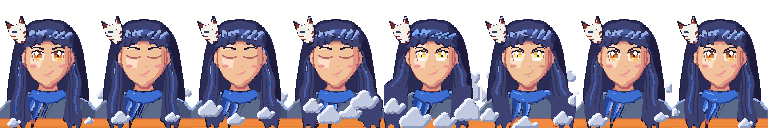
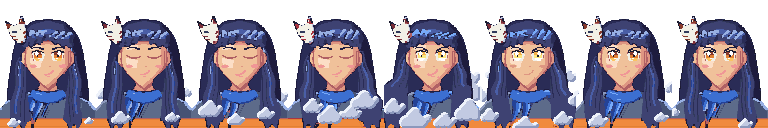
Shade: heart-bottom chin (convex jaw curves to a single point)
Claude-Session: https://claude.ai/code/session_01J8LgTLVYzThXjNSRVhWqep

diff --git a/tools/sprites/anime_flicker.py b/tools/sprites/anime_flicker.py
@@ -53,23 +53,28 @@ FBASE = dict(mouth="smirk", hair="long", eyes="animeB", mask="side", scarf="tail
 
 
 # ---------------------------------------------------------------- female face shape (explicit, per character)
-# Cheek width and chin are SEPARATE: cheek0 scales the face width below y 27 exactly as Sakura's does (Shade -0.03); the chin
-# only replaces the last two points of her polygon (below y ~40): chin_w = width of the chin, chin_drop = how far the tip sits
-# below y 43.0. "Pointier" means the chin tip only; the jaw corners and cheek points never move.
-F_CHIN_STEPS = [(8.0, 0.0), (7.2, 0.4), (6.5, 0.8), (5.4, 1.6)]
-F_CHIN_SHIP = (6.5, 0.8)
+# Cheek width and chin are SEPARATE: cheek0 scales the face width below y 27 exactly as Sakura's does (Shade -0.03) and the
+# cheek points never move. The jaw is the bottom of a HEART: from the widest cheek point (y 31.5) each side runs down and inward as a
+# gently convex curve (x = hw * (1 - t^p), p > 1 bulges outward like a lower lobe) and the two meet at ONE point at the chin centre
+# (tip_y). p 2.0 is a round chin, ~1.5 a heart, ~1.15 nearly a straight V; tip_y 43.0 is Sakura's chin level.
+F_CHIN_STEPS = [(43.0, 2.0), (43.8, 1.75), (44.6, 1.5), (45.4, 1.25)]      # (tip_y, p): A round .. D sharp
+F_CHIN_SHIP = (44.6, 1.5)                                                  # heart bottom
 F_FACE = {"chin": F_CHIN_SHIP, "cheek0": -0.03}
 
 
 def f_face_pts():
-    cw, drop = F_FACE["chin"]
+    tip_y, p = F_FACE["chin"]
     f = F_FACE["cheek0"]
-    base = ab.SFACE0[:6]          # ... (31.8, 39.4): everything down to the jaw corner, unchanged
-    right_low = [(28.0 + (cw - 8.0) * 0.5 - 0.3, 41.9 + drop * 0.55), (24 + cw / 2 * 0.62, 42.9 + drop * 0.9), (24, 43.0 + drop)]
-    left_low = [(48 - x, y) for x, y in right_low[::-1]][1:]
-    left_hi = ab.SFACE0[9:]      # (20.0, 42.2) is replaced by the chin points; keep (16.2, 39.4) .. (12.4, 27.5)
-    left_hi = [pt for pt in left_hi if pt[1] < 41]
-    pts = base + right_low + left_low + left_hi
+    top = ab.SFACE0[:4]                       # ... (35.6, 31.5): the cheek points, unchanged
+    hw = 35.6 - 24
+    right = []
+    for k in range(1, 12):
+        t = k / 11.0
+        right.append((24 + hw * (1 - t ** p), 31.5 + t * (tip_y - 31.5)))
+    right[-1] = (24.0, tip_y)                 # a single point at the chin centre
+    left = [(48 - x, y) for x, y in right[::-1]][1:]
+    left_hi = [(12.4, 31.5), (12.4, 27.5)]
+    pts = top + right + left + left_hi
     return [(24 + (x - 24) * (1 + f), y) if y > 27 else (x, y) for x, y in pts]
 
 
@@ -658,10 +663,10 @@ def f_chin_sheet(review):
         d.text((8 + i * cw + (W * S - tw) / 2, rh * 2 + 8), lab, fill=(255, 255, 255, 255), font=font)
     sheet.convert("RGB").save(os.path.join(review, "female_chins.png"))
     with open(os.path.join(review, "female_chins_key.txt"), "w") as fh:
-        fh.write("Top row Shade, second row Sakura (same chin steps, review only). (chin width, tip drop); cheeks never change\n")
+        fh.write("Top row Shade, second row Sakura (same chin steps, review only). (chin tip y, jaw curve exponent p); cheeks never change\n")
         for lab, st in zip("ABCD", F_CHIN_STEPS):
             fh.write("%s: %s\n" % (lab, st))
-        fh.write("shipped for Shade: %s (chin only)\n" % (F_CHIN_SHIP,))
+        fh.write("shipped for Shade: %s (heart-bottom chin)\n" % (F_CHIN_SHIP,))
 
 
 def f_sakura_chins(out_dir):

diff --git a/.claude/skills/anime-pixel-art/SKILL.md b/.claude/skills/anime-pixel-art/SKILL.md
@@ -84,15 +84,17 @@ Reference: `assets/title/anime/sakura_bust.png`, code = the Sakura section of `t
 (-1.5, -1.4) units, only below y 29) in SK_S, never a diagonal cheek plane. Keep ink outline, lit left, deep strip + rim right,
 chin shadow on the neck. Neck short (`STOFF` 0.8 vs Flint's 3.5), shoulders softly sloped.
 
-**Chin is separate from cheek width (2026-11-06, Shade feedback)**: "a tad pointier" / "revise how we draw females" means the CHIN TIP ONLY.
-The first attempt tapered the whole lower face (narrower cheeks) and was rejected: "dont change cheek size". Rules: cheek width is its own
-number (`cheek0`: Sakura +0.03, Shade -0.03, scales x of every point below y 27 as `s_face_pts` does) and the jaw corners / cheek points
-(`SFACE0` down to (31.8, 39.4)) never move; the chin only replaces the last points of the polygon (below y ~40): chin width 8.0 and tip at
-y 43.0 is Sakura's round chin, Shade ships **chin 6.5 wide, tip 0.8 below 43.0** (soft small point, never sharp). Steps for comparing
-(`F_CHIN_STEPS` in `tools/sprites/anime_flicker.py`, `f_face_pts` patched over `ab.s_face_pts` at runtime, anime_busts.py untouched):
-A (8.0, 0), B (7.2, 0.4), C (6.5, 0.8), D (5.4, 1.6). Young / cute = A, adult / cool = C-D. Keep the cheeks wide enough that the ears stay
-hidden (narrowing the cheeks exposed dark ear notches). The jaw shadow band follows the polygon automatically. Render `female_chins.png`
-(Shade + Sakura at the four steps) to compare before changing a face.
+**Chin = the bottom of a heart; cheeks are separate (2026-11-06, Shade feedback)**: "a tad pointier" / "revise how we draw females" means
+the CHIN only ("dont change cheek size"), and the final answer was "make it like the bottom of a heart". Cheek width is its own number
+(`cheek0`: Sakura +0.03, Shade -0.03, scales x of every point below y 27 as `s_face_pts` does) and the cheek points (`SFACE0` down to
+(35.6, 31.5)) never move. From the widest cheek point (y 31.5) each side runs down and inward as a gently CONVEX curve (bulging outward,
+a lower lobe of a heart) and both meet at ONE defined point at the chin centre: no flat chin, no rounded U bottom. Formula
+(`f_face_pts` in `tools/sprites/anime_flicker.py`, patched over `ab.s_face_pts` at runtime, anime_busts.py untouched): 11 points
+`x = 24 + 11.6 * (1 - t^p)`, `y = 31.5 + t * (tip_y - 31.5)`, t = 1/11 .. 1, last point = (24, tip_y), then the cheek scale. Shade ships
+**tip_y 44.6, p 1.5** (a 1-2 px tip at x1, the jaw band follows it, ears stay hidden). Steps `F_CHIN_STEPS` (tip_y, p): A (43.0, 2.0)
+round like Sakura, B (43.8, 1.75), C (44.6, 1.5) heart, D (45.4, 1.25) nearly a straight V (too sharp). p ~2 reads round, p ~1.1 a straight
+wedge; always keep the lobes convex. Young / cute faces may use A-B, adult / cool faces C. Narrowing the cheeks exposes dark ear
+notches, so don't. Render `female_chins.png` (Shade + Sakura at the four steps) to compare before changing a face.
 
 **Eyes** (option B = `EYES["animeB"]`, drawn by `s_eye_anime`): ~6.6 wide x 5.2 tall (never bigger; chibi / hearts / "alien"
 came from big dark irises and a V lower lid), centres 24 +- 4.8, cy 27.8. Upper lash = thick ARCH peaking at t 0.62 (outward of
